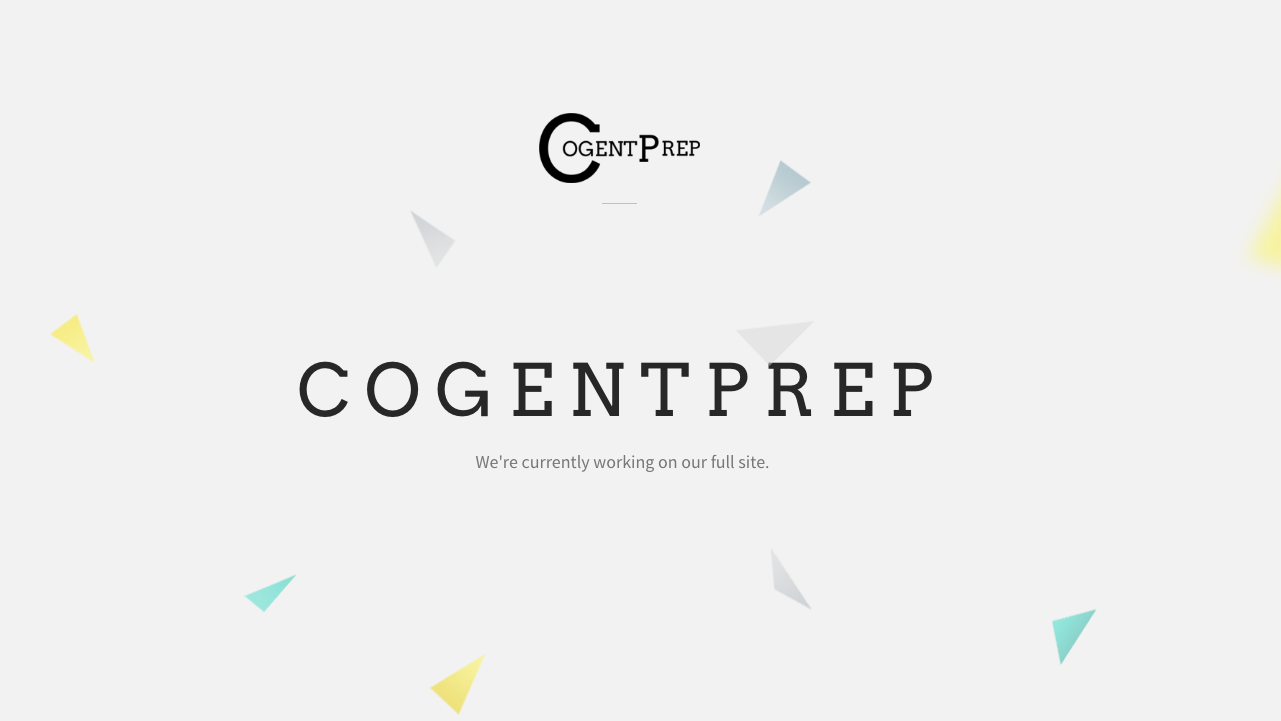
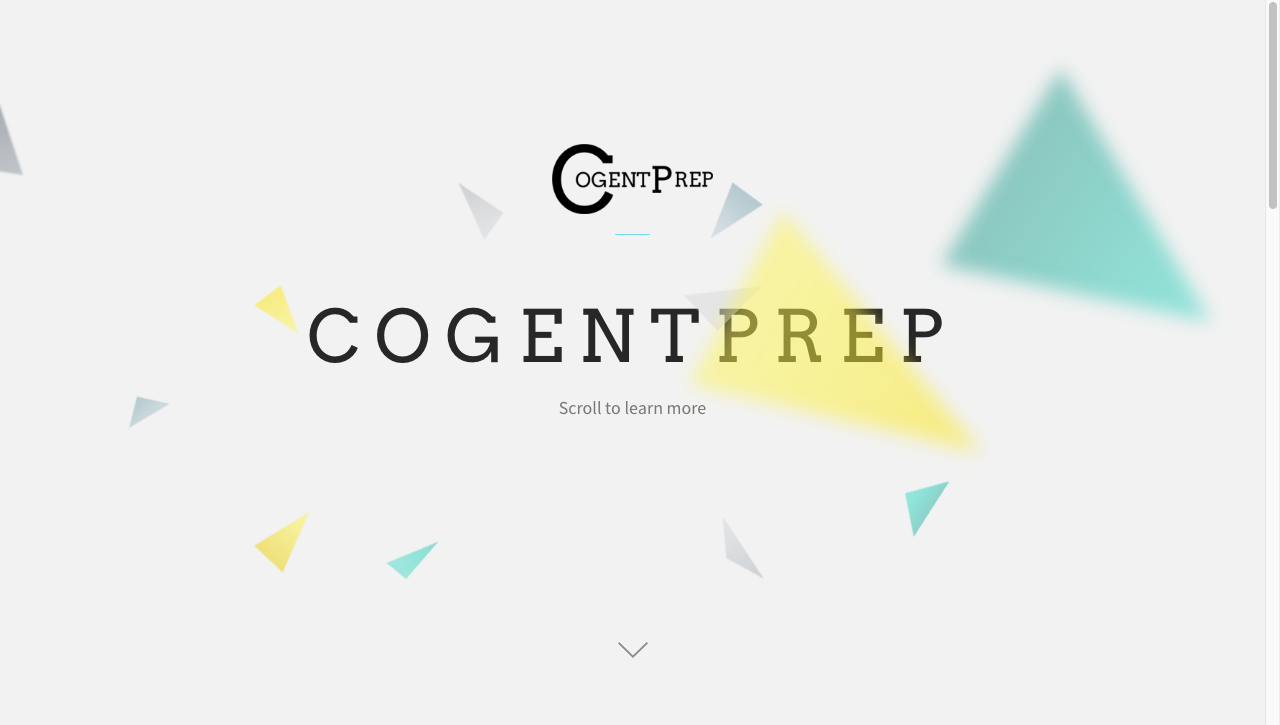
Update minor fixes 7/24/17

diff --git a/index.html b/index.html
@@ -4,14 +4,14 @@
 <head>
 	<meta charset="utf-8">
 
-	<title>CogentPrep - Coming Soon</title>
+	<title>CogentPrep</title>
 
 	<!-- Behavioral Meta Data -->
 	<meta name="viewport" content="width=device-width, initial-scale=1, maximum-scale=1, user-scalable=no">
 
 	<!-- Core Meta Data -->
 	<meta name="author" content="Rohith Perumalla">
-	<meta name="description" content="Tutoring For Students, By Students">
+	<meta name="description" content="Creating a network of students facilitating an environment where everyone helps each other to collectively succeed.">
 	<meta name="keywords" content="Frisco Liberty Tutoring, Tutoring, Tutoring For Students By Students">
 
 	<!-- Favicon -->
@@ -49,6 +49,7 @@
 </head>
 
 <body>
+
 	<!-- Hero -->
 	<section id="hero">
 		<ul id="scene" class="scene"
@@ -169,31 +170,9 @@
 	<!-- Form -->
 	<section class="container padded center">
 		<div class="row">
-			<div class="col-xs-12 col-sm-10 col-sm-offset-1 col-md-8 col-md-offset-2">
 				<h3>contact</h3>
 				<span class="line"></span>
-				<iframe src="https://docs.google.com/forms/d/e/1FAIpQLSe4wet8Cjx06gApFDS2QSYldYT7omxNn8ecgOQ78u8eok6r8w/viewform?embedded=true" width="760" height="500" frameborder="0" marginheight="0" marginwidth="0">Loading...</iframe>
-
-				<!-- <form id="contact" name="contact" method="post" novalidate>
-				<fieldset>
-					<label for="name">Name</label>
-					<input type="text" name="name" id="name" />
-					<label for="email">Email</label>
-			        <input type="email" name="email" id="email" />
-			        <label for="message">Message</label>
-			        <textarea name="message" id="message"></textarea>
-			        <input id="submit" type="submit" name="submit" value="Send Information">
-				</fieldset>
-			</form> -->
-
-			<div id="success">
-				<p>Your message was sent successfully! We will be in touch as soon as we can.</p>
-			</div>
-
-			<div id="error">
-				<p>Something went wrong, please manually send us an email at CogentPrep@gmail.com.</p>
-			</div>
-			</div>
+				<iframe src="https://docs.google.com/forms/d/e/1FAIpQLSe4wet8Cjx06gApFDS2QSYldYT7omxNn8ecgOQ78u8eok6r8w/viewform?embedded=true" width="90%" height="500" frameborder="0" marginheight="0" marginwidth="0">Loading...</iframe>
 		</div>
 
 		<!-- Footer
@@ -239,15 +218,16 @@
     <meta name="twitter:site" content="@cogentprep">
     <meta name="twitter:creator" content="@rohithperumalla">
     <meta name="twitter:title" content="CogentPrep">
-    <meta name="twitter:description" content="Tutoring for students, by students.">
+    <meta name="twitter:description" content="Creating a network of students facilitating an environment where everyone helps each other to collectively succeed.">
     <meta name="twitter:image" content="http://cogentprep.github.io/images/Welcome Page.png">
        
     <!-- FB & WhatsApp -->
     <meta property="og:site_name" content="Rohith Perumalla">
     <meta property="og:title" content="CogentPrep">
-	<meta property="og:description" content="Tutoring for students, by students.">
+	<meta property="og:description" content="Creating a network of students facilitating an environment where everyone helps each other to collectively succeed.">
 	<meta property="og:image" content="http://cogentprep.github.io/images/Welcome Page.png">
     <meta property="og:url" content="http://cogentprep.github.io">
+    
 </body>
 
 </html>
